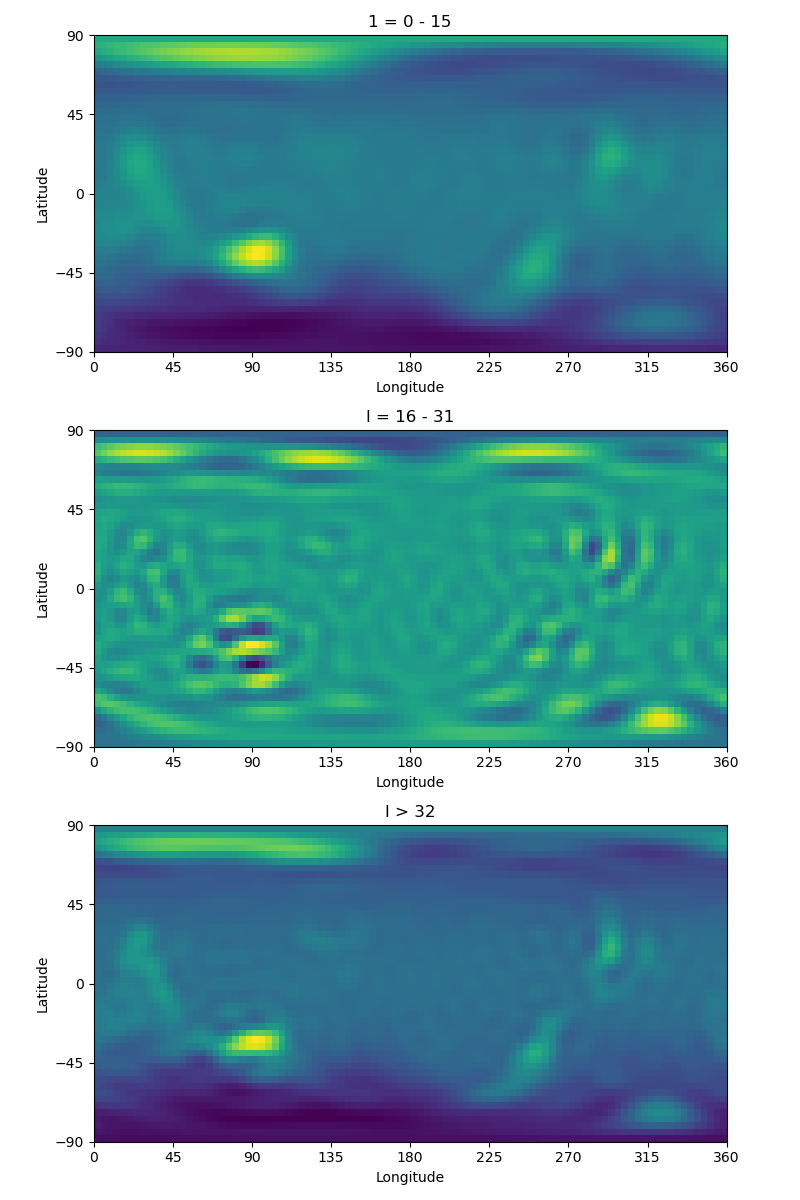
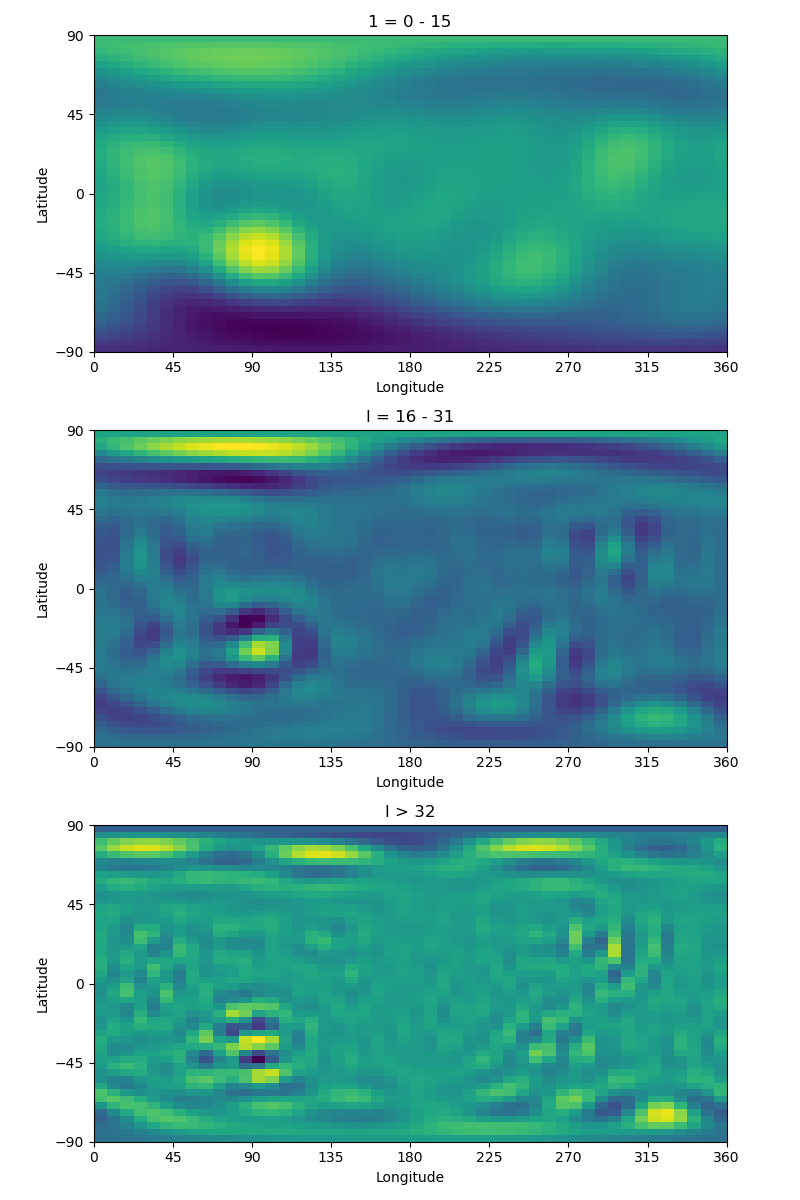
updated the code to match the instructions

diff --git a/test.py b/test.py
@@ -6,6 +6,8 @@ import netCDF4 as nc
 import pyshtools as pysh
 import matplotlib.pyplot as plt
 
+# -------- TASK 1 --------
+
 # Load the NetCDF file containing geopotential data
 f = nc.Dataset('/fs/ess/PAS2856/SPEEDY_ensemble_data/reference_ens/201103130000.nc', 'r')
 
@@ -83,22 +85,24 @@ plt.savefig('test.png')
 
 #Filter for 16th largest scale
 geopot_coeffs_filtered1 = geopot_coeffs.copy()
-lmax1 = 16
+lmax1 = 8
 geopot_coeffs_filtered1[:, lmax1:, :] = 0  #Set values for l > 15 to 0
-topo_filtered1 = pysh.expand.MakeGridDH(geopot_coeffs_filtered1, sampling=2)
+topo_filtered1 = pysh.expand.MakeGridDH(geopot_coeffs_filtered1, sampling=1)
 
 #2nd plot: Sum of the 16th to 32nd largest scales (l = 16 to 31)
 geopot_coeffs_filtered2 = geopot_coeffs.copy()
-lmin2, lmax2 = 16, 32
+lmin2, lmax2 = 8, 16
 geopot_coeffs_filtered2[:, :lmin2, :] = 0  #Set values for l < 16 to 0
 geopot_coeffs_filtered2[:, lmax2:, :] = 0  #Set values for l > 31 to 0
-topo_filtered2 = pysh.expand.MakeGridDH(geopot_coeffs_filtered2, sampling=2)
+topo_filtered2 = pysh.expand.MakeGridDH(geopot_coeffs_filtered2, sampling=1)
 
 #3rd plot: Sum of the remaining scales (l > 32)
 geopot_coeffs_filtered3 = geopot_coeffs.copy()
-lmin3 = 32
-geopot_coeffs_filtered3[:, lmin3:, :] = 0  #Set values for l < 32 to 0
-topo_filtered3 = pysh.expand.MakeGridDH(geopot_coeffs_filtered3, sampling=2)
+lmin3 = 16
+geopot_coeffs_filtered3[:, :lmin3, :] = 0  #Set values for l < 32 to 0
+topo_filtered3 = pysh.expand.MakeGridDH(geopot_coeffs_filtered3, sampling=1)
+
+
 
 #Create empty figure with 3 rows and 1 column for plots
 fig, axes = plt.subplots(3, 1, figsize=(8, 12))
@@ -142,3 +146,5 @@ plt.tight_layout()
 #Save the result
 plt.savefig('sum_of_all_scales.png')
 
+
+# -------- TASK 3 --------
